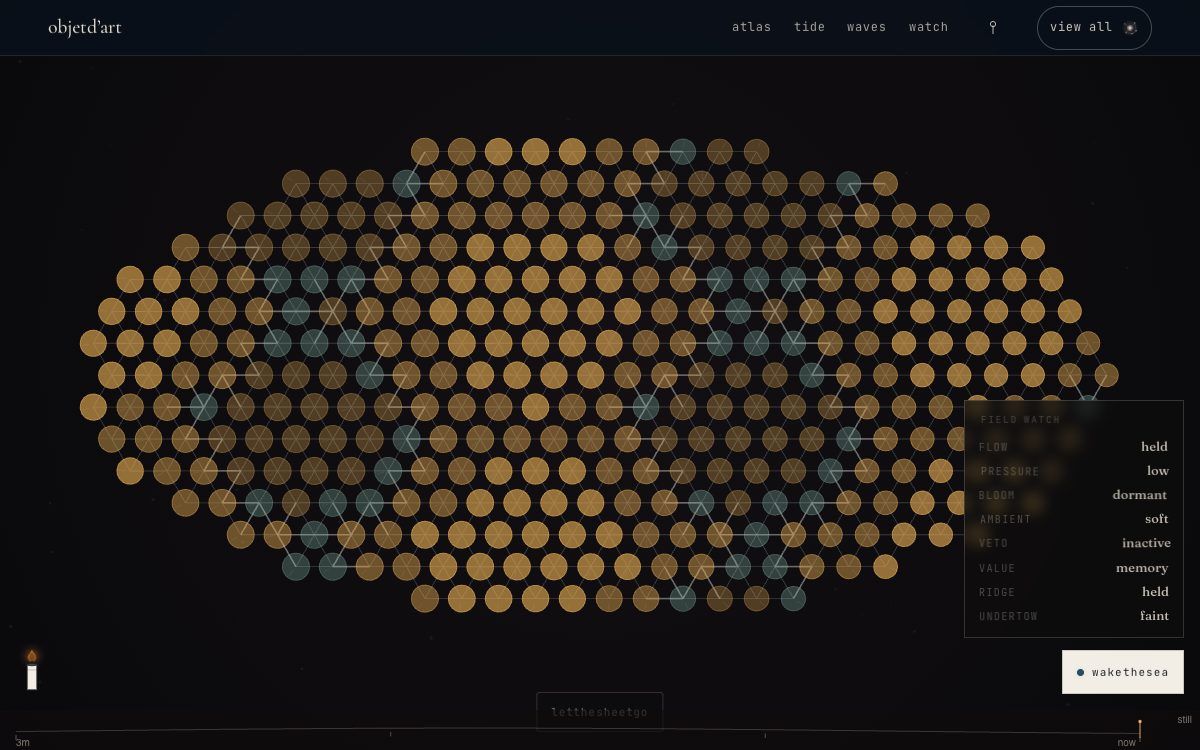
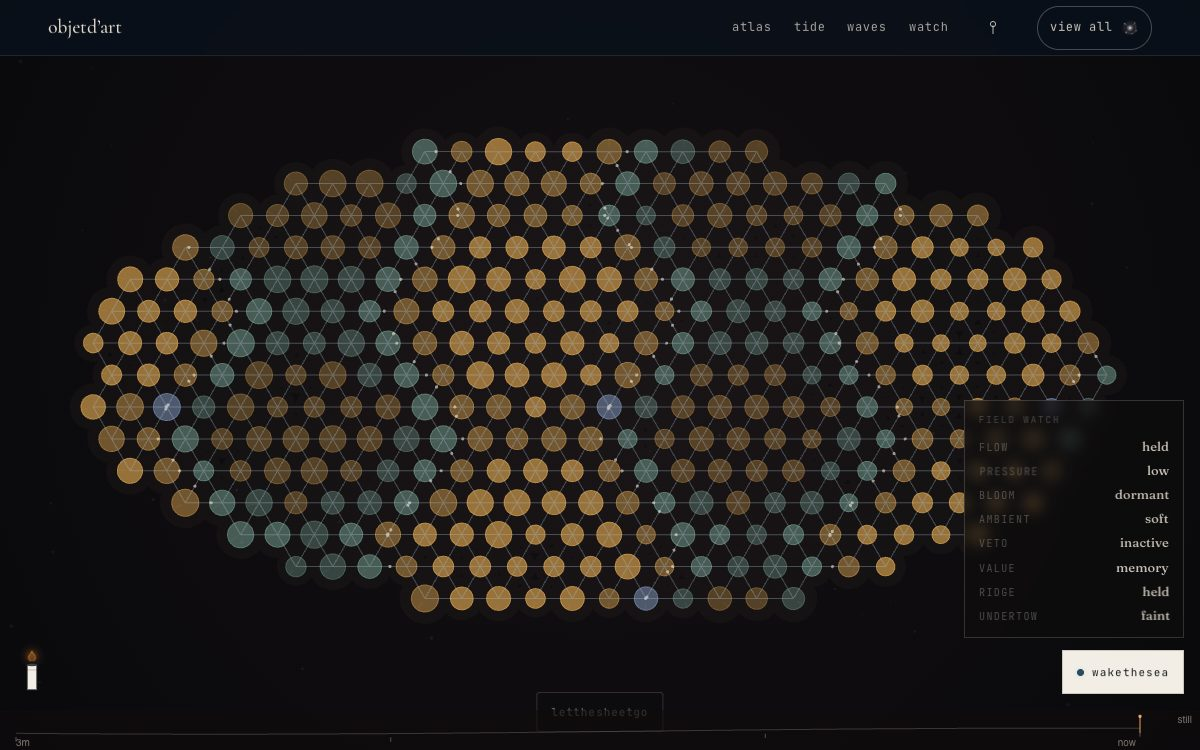
feat(tissue): the pit lifts when the finger does, and the sheet stops looking machined
Three corrections to /tissue, which landed from a mid-flight snapshot of
this branch and so shipped without them.

The bug: a one-finger hold that turns into a stroke or a flick never sends
its release phase, so `pitActive` stayed true forever — the invagination
kept being re-applied at the last point every frame, the constriction never
relaxed, and the sheet carried a permanent dent nothing could lift. It now
lifts when the ticks stop, exactly as a finger does, and a drag that starts
under a hold cancels the hold outright.

The other two are the material. Every cell was drawn at the identical
radius, which read as a machined bead lattice rather than an epithelium;
each cell now carries a deterministic drawn girth, a drawing variation only
— the mechanical radius stays uniform so the lattice's rest lengths remain
satisfiable and bond colour keeps reading real strain. And the
differentiation front was drawn as whole bonds, which put a jagged cage
across the sheet; it is now drawn at the interpolated crossing point of
each straddling bond, so the sweep reads as the line it is.

The plan's §2 for /tissue said the sheet invaginates on a pinch. Pinch
belongs to ScaleTravel in every room; the built room uses a one-finger
dwell, and the paragraph now says what was built.

diff --git a/src/components/TissueSheet.tsx b/src/components/TissueSheet.tsx
@@ -147,6 +147,8 @@ export default function TissueSheet() {
     let pitAmount = 0;
     let pitSealed = false;
     let lastPitToneAt = 0;
+    /** the last hold tick — a hold that turns into a drag never releases */
+    let pitTickAt = 0;
     let strokeX = 0;
     let strokeY = 0;
     let strokeRun = 0;
@@ -166,6 +168,11 @@ export default function TissueSheet() {
     let field: MorphogenField = morphogenField(0x715);
 
     const lit = new Float32Array(MAX_CELLS);
+    // No two cells in an epithelium look the same size. This is a drawing
+    // variation only — the mechanical radius stays uniform so the lattice's
+    // rest lengths remain satisfiable and bond colour reads real strain.
+    const girth = new Float32Array(MAX_CELLS);
+    for (let i = 0; i < MAX_CELLS; i++) girth[i] = 0.84 + ((hashSeed(i, 0x9a1) % 1000) / 1000) * 0.32;
     const morph = new Float64Array(MAX_CELLS);
     let degrees = new Uint8Array(MAX_CELLS);
     let prevLive = new Uint8Array(0);
@@ -400,6 +407,7 @@ export default function TissueSheet() {
           const p = toSheet(e.x, e.y);
           if (e.phase === "enter") {
             pitActive = true;
+            pitTickAt = performance.now();
             pitSealed = false;
             pitX = p.x;
             pitY = p.y;
@@ -416,6 +424,7 @@ export default function TissueSheet() {
             pitActive = false;
             return;
           }
+          pitTickAt = performance.now();
           // Duration is the axis: the pit keeps deepening the longer the
           // finger stays, and past the ceremony it closes over for good.
           pitX = p.x;
@@ -466,6 +475,8 @@ export default function TissueSheet() {
           if (e.fingers !== 1) return;
           const p = toSheet(e.x, e.y);
           if (e.phase === "start") {
+            // a hold that became a stroke is no longer a hold
+            pitActive = false;
             strokeLive = true;
             strokeRun = 0;
             strokeX = p.x;
@@ -672,6 +683,7 @@ export default function TissueSheet() {
         // and a held key draws the sheet in, as a dwell does
         kbCharge = clamp01(kbCharge + 0.035);
         pitActive = true;
+        pitTickAt = performance.now();
         pitX = sheet.px[selIdx];
         pitY = sheet.py[selIdx];
         pitAmount = kbCharge;
@@ -750,6 +762,10 @@ export default function TissueSheet() {
 
       // ——— the body ———
       if (sheet && sheet.n > 0) {
+        // A hold that turned into a drag or a flick never sends its release,
+        // so the pit would stay pressed into the sheet forever. It lifts
+        // when the ticks stop, exactly as a finger does.
+        if (pitActive && now - pitTickAt > 340 && pitTickAt > 0) pitActive = false;
         if (pitActive) constrict(sheet, pitX, pitY, 2.1, pitAmount);
         else relaxConstriction(sheet, dt * timeScale, 0.55);
 
@@ -871,7 +887,7 @@ export default function TissueSheet() {
         // sheet glows rather than sits flat on the dark —
         ctx.beginPath();
         for (let i = 0; i < n; i++) {
-          const rr = sheet.r[i] * scale * 1.7 * (1 - sheet.depth[i] * 0.5);
+          const rr = sheet.r[i] * scale * girth[i] * 1.75 * (1 - sheet.depth[i] * 0.5);
           const px = ox + sheet.px[i] * scale;
           const py = oy + sheet.py[i] * scale;
           ctx.moveTo(px + rr, py);
@@ -901,7 +917,8 @@ export default function TissueSheet() {
                 ? 0
                 : Math.sin(localT * waveK - (sheet.px[i] / Math.max(0.001, sheet.spanX)) * 2.2) * 0.08;
               const rr =
-                sheet.r[i] * scale * (0.78 + wave + breath * 0.05 + lit[i] * 0.4) * (1 - sheet.depth[i] * 0.45);
+                sheet.r[i] * scale * girth[i] * (0.86 + wave + breath * 0.05 + lit[i] * 0.4) *
+                (1 - sheet.depth[i] * 0.45);
               if (rr <= 0.2) continue;
               const px = ox + sheet.px[i] * scale;
               const py = oy + sheet.py[i] * scale;
@@ -956,15 +973,22 @@ export default function TissueSheet() {
             if (!sheet.live[e]) continue;
             const a = sheet.ea[e];
             const c = sheet.eb[e];
-            if (morph[a] > front === morph[c] > front) continue;
-            ctx.moveTo(ox + sheet.px[a] * scale, oy + sheet.py[a] * scale);
-            ctx.lineTo(ox + sheet.px[c] * scale, oy + sheet.py[c] * scale);
+            const ma = morph[a];
+            const mc = morph[c];
+            if (ma > front === mc > front) continue;
+            // the crossing point itself, so the front reads as a line and
+            // not as a cage of whole bonds
+            const u = (front - ma) / (mc - ma);
+            const fx = ox + (sheet.px[a] + (sheet.px[c] - sheet.px[a]) * u) * scale;
+            const fy = oy + (sheet.py[a] + (sheet.py[c] - sheet.py[a]) * u) * scale;
+            const rr = 1.5 + breath * 0.7;
+            ctx.moveTo(fx + rr, fy);
+            ctx.arc(fx, fy, rr, 0, Math.PI * 2);
             any = true;
           }
           if (any) {
-            ctx.strokeStyle = `rgba(242, 238, 230, ${(0.4 + breath * 0.2) * alpha})`;
-            ctx.lineWidth = 2;
-            ctx.stroke();
+            ctx.fillStyle = `rgba(246, 240, 226, ${(0.5 + breath * 0.24) * alpha})`;
+            ctx.fill();
           }
         }
 
@@ -978,7 +1002,7 @@ export default function TissueSheet() {
           ctx.moveTo(px + Math.cos(sheet.pol[i]) * r0, py + Math.sin(sheet.pol[i]) * r0);
           ctx.lineTo(px + Math.cos(sheet.pol[i]) * r1, py + Math.sin(sheet.pol[i]) * r1);
         }
-        ctx.strokeStyle = `rgba(242, 238, 230, ${(0.09 + lens * 0.26) * alpha})`;
+        ctx.strokeStyle = `rgba(242, 238, 230, ${(0.07 + lens * 0.28) * alpha})`;
         ctx.lineWidth = 0.7;
         ctx.stroke();
 

diff --git a/docs/plans/life-and-vista-bands.md b/docs/plans/life-and-vista-bands.md
@@ -174,11 +174,16 @@ sheet sound like a chord; a break in the sheet is a dissonance you can hear
 before you can see it.
 
 **Material.** A few hundred cells as a soft-body sheet — Verlet constraints on
-the GPU-friendly side, rendered as one instanced pass. Stroke it and cells
-divide along the stroke. Pinch and the sheet invaginates, which is gastrulation
-and also just *a beautiful thing a sheet does*. Let it run and the sheet
-differentiates by position; hold it and the differentiation freezes. Its
-ceiling opens onto the petal.
+a fixed timestep with an accumulator, so the sheet is the same sheet at 60 and
+120 Hz, rendered as batched passes over typed arrays. Stroke it and cells
+divide along the stroke, each daughter taking half the mother's area. A
+one-finger dwell draws the sheet in at that point and the sheet invaginates,
+which is gastrulation and also just *a beautiful thing a sheet does* — a dwell
+rather than a pinch, because pinch belongs to `ScaleTravel` in every room. Held
+past the ceremony tier the pit seals into a second layer. Let it run and the
+sheet differentiates by position as a front sweeps the morphogen; a three-finger
+hold dilates the clock and the front visibly stalls. Its ceiling opens onto the
+petal.
 
 ### `/birds` — the flock as one animal
 
